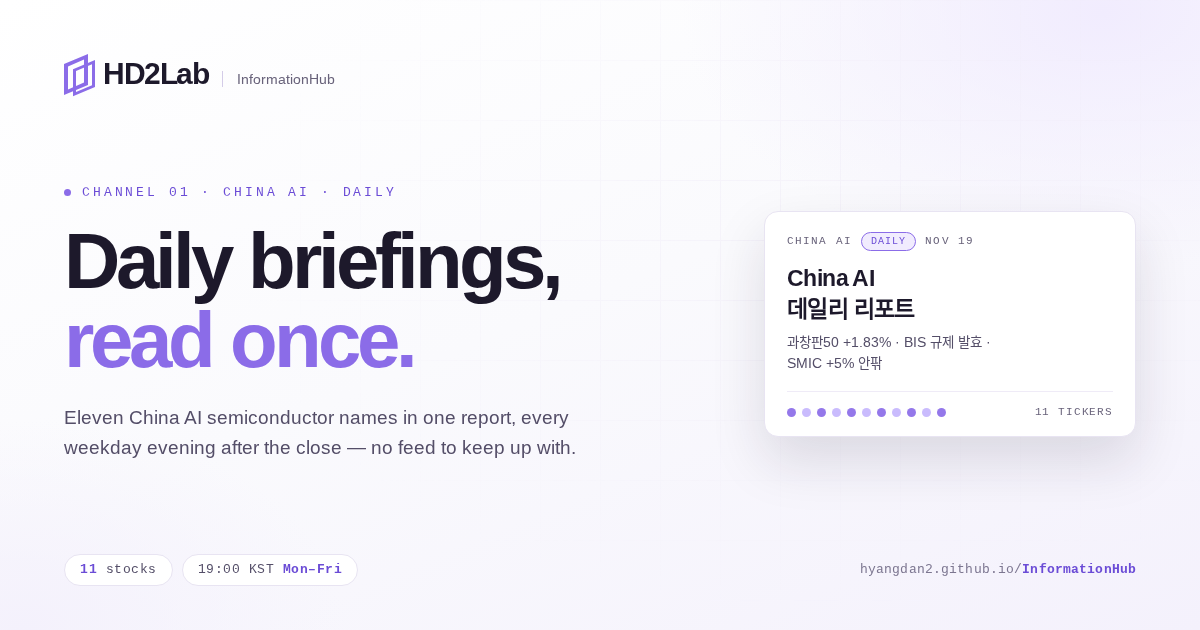
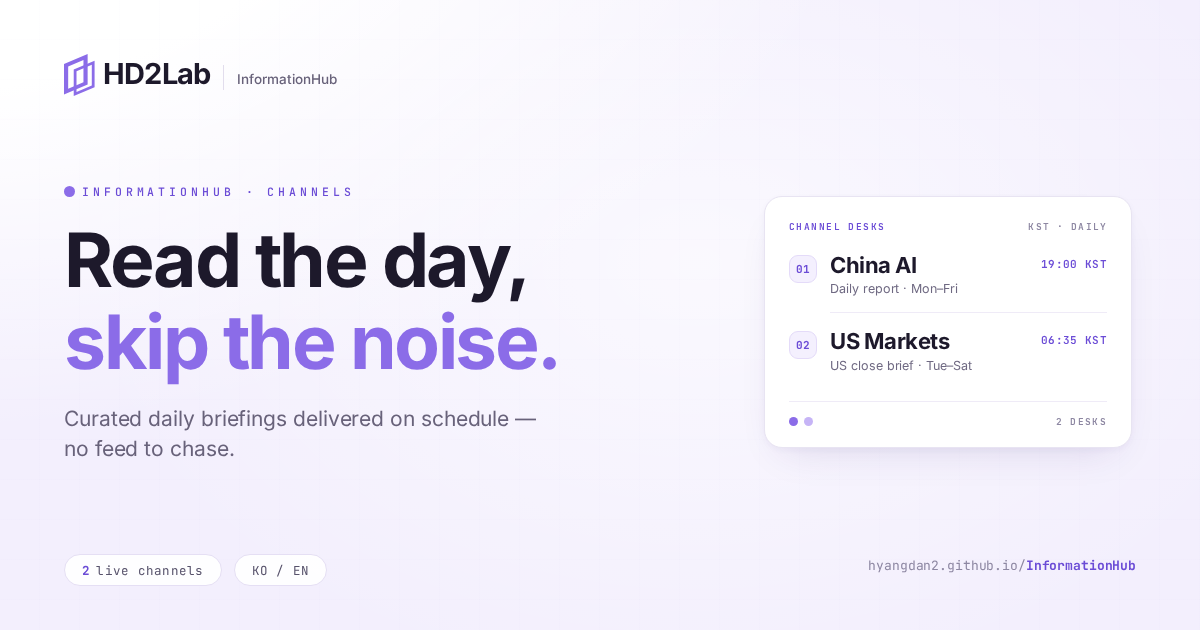
feat(og): 두 채널이 함께 보이는 범용 OG 카드로 교체 (#13)
- src/og-image.png·og-image.png를 1200×630 범용 버전으로 교체
  (배지 INFORMATIONHUB · CHANNELS, 헤드라인 "Read the day, / skip the noise.")
- 우측 카드에 China AI(19:00 KST)·US Markets(06:35 KST) 두 데스크 동시 노출
- 하단 칩 2 live channels · KO / EN, URL 워드마크 유지
- og:image·twitter:image 캐시 버스팅 ?v=20261119-og2
- node build.mjs로 정적 산출물 재생성

diff --git a/posts/2026-11-19-spotlight-nvda/index.html b/posts/2026-11-19-spotlight-nvda/index.html
@@ -17,8 +17,8 @@
     <meta property="og:title" content="US Markets 스포트라이트 · NVDA — 실적은 예상을 웃돌았지만, 주가는 52주 신저가 부근에 머물렀다 · HD2Lab | InformationHub">
     <meta property="og:description" content="HD2Lab InformationHub — channel-by-channel daily briefings. The China AI desk publishes one report on 11 China AI semiconductor names every weekday evening at 19:00 KST; the US Markets desk files one on the US close at 06:35 KST, Tuesday through Saturday.">
     <meta property="og:url" content="https://hyangdan2.github.io/InformationHub/posts/2026-11-19-spotlight-nvda/">
-    <meta property="og:image" content="https://hyangdan2.github.io/InformationHub/og-image.png">
-    <meta property="og:image:secure_url" content="https://hyangdan2.github.io/InformationHub/og-image.png">
+    <meta property="og:image" content="https://hyangdan2.github.io/InformationHub/og-image.png?v=20261119-og2">
+    <meta property="og:image:secure_url" content="https://hyangdan2.github.io/InformationHub/og-image.png?v=20261119-og2">
     <meta property="og:image:type" content="image/png">
     <meta property="og:image:width" content="1200">
     <meta property="og:image:height" content="630">
@@ -26,7 +26,7 @@
     <meta name="twitter:card" content="summary_large_image">
     <meta name="twitter:title" content="US Markets 스포트라이트 · NVDA — 실적은 예상을 웃돌았지만, 주가는 52주 신저가 부근에 머물렀다 · HD2Lab | InformationHub">
     <meta name="twitter:description" content="HD2Lab InformationHub — channel-by-channel daily briefings. The China AI desk publishes one report on 11 China AI semiconductor names every weekday evening at 19:00 KST; the US Markets desk files one on the US close at 06:35 KST, Tuesday through Saturday.">
-    <meta name="twitter:image" content="https://hyangdan2.github.io/InformationHub/og-image.png">
+    <meta name="twitter:image" content="https://hyangdan2.github.io/InformationHub/og-image.png?v=20261119-og2">
     <script>try{var h=localStorage.getItem('hd2-theme');document.documentElement.setAttribute('data-theme',h==='dark'?'dark':'light');}catch(e){document.documentElement.setAttribute('data-theme','light');}</script>
     <link rel="stylesheet" href="/InformationHub/assets/hd2-theme.css?v=20261119-info8">
     <script src="/InformationHub/assets/hd2-theme.js?v=20261119-info8" defer></script>

diff --git a/en/posts/2026-11-19-spotlight-nvda/index.html b/en/posts/2026-11-19-spotlight-nvda/index.html
@@ -17,8 +17,8 @@
     <meta property="og:title" content="US Markets Spotlight · NVDA — the quarter was won, the stock closed at its 52-week low · HD2Lab | InformationHub">
     <meta property="og:description" content="HD2Lab InformationHub — channel-by-channel daily briefings. The China AI desk publishes one report on 11 China AI semiconductor names every weekday evening at 19:00 KST; the US Markets desk files one on the US close at 06:35 KST, Tuesday through Saturday.">
     <meta property="og:url" content="https://hyangdan2.github.io/InformationHub/en/posts/2026-11-19-spotlight-nvda/">
-    <meta property="og:image" content="https://hyangdan2.github.io/InformationHub/og-image.png">
-    <meta property="og:image:secure_url" content="https://hyangdan2.github.io/InformationHub/og-image.png">
+    <meta property="og:image" content="https://hyangdan2.github.io/InformationHub/og-image.png?v=20261119-og2">
+    <meta property="og:image:secure_url" content="https://hyangdan2.github.io/InformationHub/og-image.png?v=20261119-og2">
     <meta property="og:image:type" content="image/png">
     <meta property="og:image:width" content="1200">
     <meta property="og:image:height" content="630">
@@ -26,7 +26,7 @@
     <meta name="twitter:card" content="summary_large_image">
     <meta name="twitter:title" content="US Markets Spotlight · NVDA — the quarter was won, the stock closed at its 52-week low · HD2Lab | InformationHub">
     <meta name="twitter:description" content="HD2Lab InformationHub — channel-by-channel daily briefings. The China AI desk publishes one report on 11 China AI semiconductor names every weekday evening at 19:00 KST; the US Markets desk files one on the US close at 06:35 KST, Tuesday through Saturday.">
-    <meta name="twitter:image" content="https://hyangdan2.github.io/InformationHub/og-image.png">
+    <meta name="twitter:image" content="https://hyangdan2.github.io/InformationHub/og-image.png?v=20261119-og2">
     <script>try{var h=localStorage.getItem('hd2-theme');document.documentElement.setAttribute('data-theme',h==='dark'?'dark':'light');}catch(e){document.documentElement.setAttribute('data-theme','light');}</script>
     <link rel="stylesheet" href="/InformationHub/assets/hd2-theme.css?v=20261119-info8">
     <script src="/InformationHub/assets/hd2-theme.js?v=20261119-info8" defer></script>

diff --git a/en/posts/2026-11-19-spotlight-hygon/index.html b/en/posts/2026-11-19-spotlight-hygon/index.html
@@ -17,8 +17,8 @@
     <meta property="og:title" content="China AI Spotlight · Hygon (688041) — three things a 17% intraday fall left behind · HD2Lab | InformationHub">
     <meta property="og:description" content="HD2Lab InformationHub — channel-by-channel daily briefings. The China AI desk publishes one report on 11 China AI semiconductor names every weekday evening at 19:00 KST; the US Markets desk files one on the US close at 06:35 KST, Tuesday through Saturday.">
     <meta property="og:url" content="https://hyangdan2.github.io/InformationHub/en/posts/2026-11-19-spotlight-hygon/">
-    <meta property="og:image" content="https://hyangdan2.github.io/InformationHub/og-image.png">
-    <meta property="og:image:secure_url" content="https://hyangdan2.github.io/InformationHub/og-image.png">
+    <meta property="og:image" content="https://hyangdan2.github.io/InformationHub/og-image.png?v=20261119-og2">
+    <meta property="og:image:secure_url" content="https://hyangdan2.github.io/InformationHub/og-image.png?v=20261119-og2">
     <meta property="og:image:type" content="image/png">
     <meta property="og:image:width" content="1200">
     <meta property="og:image:height" content="630">
@@ -26,7 +26,7 @@
     <meta name="twitter:card" content="summary_large_image">
     <meta name="twitter:title" content="China AI Spotlight · Hygon (688041) — three things a 17% intraday fall left behind · HD2Lab | InformationHub">
     <meta name="twitter:description" content="HD2Lab InformationHub — channel-by-channel daily briefings. The China AI desk publishes one report on 11 China AI semiconductor names every weekday evening at 19:00 KST; the US Markets desk files one on the US close at 06:35 KST, Tuesday through Saturday.">
-    <meta name="twitter:image" content="https://hyangdan2.github.io/InformationHub/og-image.png">
+    <meta name="twitter:image" content="https://hyangdan2.github.io/InformationHub/og-image.png?v=20261119-og2">
     <script>try{var h=localStorage.getItem('hd2-theme');document.documentElement.setAttribute('data-theme',h==='dark'?'dark':'light');}catch(e){document.documentElement.setAttribute('data-theme','light');}</script>
     <link rel="stylesheet" href="/InformationHub/assets/hd2-theme.css?v=20261119-info8">
     <script src="/InformationHub/assets/hd2-theme.js?v=20261119-info8" defer></script>

diff --git a/posts/2026-11-19-spotlight-hygon/index.html b/posts/2026-11-19-spotlight-hygon/index.html
@@ -17,8 +17,8 @@
     <meta property="og:title" content="China AI 스포트라이트 · 하이광(Hygon) — 장중 -17%가 남긴 세 가지 · HD2Lab | InformationHub">
     <meta property="og:description" content="HD2Lab InformationHub — channel-by-channel daily briefings. The China AI desk publishes one report on 11 China AI semiconductor names every weekday evening at 19:00 KST; the US Markets desk files one on the US close at 06:35 KST, Tuesday through Saturday.">
     <meta property="og:url" content="https://hyangdan2.github.io/InformationHub/posts/2026-11-19-spotlight-hygon/">
-    <meta property="og:image" content="https://hyangdan2.github.io/InformationHub/og-image.png">
-    <meta property="og:image:secure_url" content="https://hyangdan2.github.io/InformationHub/og-image.png">
+    <meta property="og:image" content="https://hyangdan2.github.io/InformationHub/og-image.png?v=20261119-og2">
+    <meta property="og:image:secure_url" content="https://hyangdan2.github.io/InformationHub/og-image.png?v=20261119-og2">
     <meta property="og:image:type" content="image/png">
     <meta property="og:image:width" content="1200">
     <meta property="og:image:height" content="630">
@@ -26,7 +26,7 @@
     <meta name="twitter:card" content="summary_large_image">
     <meta name="twitter:title" content="China AI 스포트라이트 · 하이광(Hygon) — 장중 -17%가 남긴 세 가지 · HD2Lab | InformationHub">
     <meta name="twitter:description" content="HD2Lab InformationHub — channel-by-channel daily briefings. The China AI desk publishes one report on 11 China AI semiconductor names every weekday evening at 19:00 KST; the US Markets desk files one on the US close at 06:35 KST, Tuesday through Saturday.">
-    <meta name="twitter:image" content="https://hyangdan2.github.io/InformationHub/og-image.png">
+    <meta name="twitter:image" content="https://hyangdan2.github.io/InformationHub/og-image.png?v=20261119-og2">
     <script>try{var h=localStorage.getItem('hd2-theme');document.documentElement.setAttribute('data-theme',h==='dark'?'dark':'light');}catch(e){document.documentElement.setAttribute('data-theme','light');}</script>
     <link rel="stylesheet" href="/InformationHub/assets/hd2-theme.css?v=20261119-info8">
     <script src="/InformationHub/assets/hd2-theme.js?v=20261119-info8" defer></script>

diff --git a/posts/2026-11-19-us-markets-daily/index.html b/posts/2026-11-19-us-markets-daily/index.html
@@ -17,8 +17,8 @@
     <meta property="og:title" content="US Markets 데일리 리포트 · 11월 19일 · HD2Lab | InformationHub">
     <meta property="og:description" content="HD2Lab InformationHub — channel-by-channel daily briefings. The China AI desk publishes one report on 11 China AI semiconductor names every weekday evening at 19:00 KST; the US Markets desk files one on the US close at 06:35 KST, Tuesday through Saturday.">
     <meta property="og:url" content="https://hyangdan2.github.io/InformationHub/posts/2026-11-19-us-markets-daily/">
-    <meta property="og:image" content="https://hyangdan2.github.io/InformationHub/og-image.png">
-    <meta property="og:image:secure_url" content="https://hyangdan2.github.io/InformationHub/og-image.png">
+    <meta property="og:image" content="https://hyangdan2.github.io/InformationHub/og-image.png?v=20261119-og2">
+    <meta property="og:image:secure_url" content="https://hyangdan2.github.io/InformationHub/og-image.png?v=20261119-og2">
     <meta property="og:image:type" content="image/png">
     <meta property="og:image:width" content="1200">
     <meta property="og:image:height" content="630">
@@ -26,7 +26,7 @@
     <meta name="twitter:card" content="summary_large_image">
     <meta name="twitter:title" content="US Markets 데일리 리포트 · 11월 19일 · HD2Lab | InformationHub">
     <meta name="twitter:description" content="HD2Lab InformationHub — channel-by-channel daily briefings. The China AI desk publishes one report on 11 China AI semiconductor names every weekday evening at 19:00 KST; the US Markets desk files one on the US close at 06:35 KST, Tuesday through Saturday.">
-    <meta name="twitter:image" content="https://hyangdan2.github.io/InformationHub/og-image.png">
+    <meta name="twitter:image" content="https://hyangdan2.github.io/InformationHub/og-image.png?v=20261119-og2">
     <script>try{var h=localStorage.getItem('hd2-theme');document.documentElement.setAttribute('data-theme',h==='dark'?'dark':'light');}catch(e){document.documentElement.setAttribute('data-theme','light');}</script>
     <link rel="stylesheet" href="/InformationHub/assets/hd2-theme.css?v=20261119-info8">
     <script src="/InformationHub/assets/hd2-theme.js?v=20261119-info8" defer></script>

diff --git a/posts/2026-11-18-chinaai-daily/index.html b/posts/2026-11-18-chinaai-daily/index.html
@@ -17,8 +17,8 @@
     <meta property="og:title" content="China AI 데일리 리포트 · 11월 18일 · HD2Lab | InformationHub">
     <meta property="og:description" content="HD2Lab InformationHub — channel-by-channel daily briefings. The China AI desk publishes one report on 11 China AI semiconductor names every weekday evening at 19:00 KST; the US Markets desk files one on the US close at 06:35 KST, Tuesday through Saturday.">
     <meta property="og:url" content="https://hyangdan2.github.io/InformationHub/posts/2026-11-18-chinaai-daily/">
-    <meta property="og:image" content="https://hyangdan2.github.io/InformationHub/og-image.png">
-    <meta property="og:image:secure_url" content="https://hyangdan2.github.io/InformationHub/og-image.png">
+    <meta property="og:image" content="https://hyangdan2.github.io/InformationHub/og-image.png?v=20261119-og2">
+    <meta property="og:image:secure_url" content="https://hyangdan2.github.io/InformationHub/og-image.png?v=20261119-og2">
     <meta property="og:image:type" content="image/png">
     <meta property="og:image:width" content="1200">
     <meta property="og:image:height" content="630">
@@ -26,7 +26,7 @@
     <meta name="twitter:card" content="summary_large_image">
     <meta name="twitter:title" content="China AI 데일리 리포트 · 11월 18일 · HD2Lab | InformationHub">
     <meta name="twitter:description" content="HD2Lab InformationHub — channel-by-channel daily briefings. The China AI desk publishes one report on 11 China AI semiconductor names every weekday evening at 19:00 KST; the US Markets desk files one on the US close at 06:35 KST, Tuesday through Saturday.">
-    <meta name="twitter:image" content="https://hyangdan2.github.io/InformationHub/og-image.png">
+    <meta name="twitter:image" content="https://hyangdan2.github.io/InformationHub/og-image.png?v=20261119-og2">
     <script>try{var h=localStorage.getItem('hd2-theme');document.documentElement.setAttribute('data-theme',h==='dark'?'dark':'light');}catch(e){document.documentElement.setAttribute('data-theme','light');}</script>
     <link rel="stylesheet" href="/InformationHub/assets/hd2-theme.css?v=20261119-info8">
     <script src="/InformationHub/assets/hd2-theme.js?v=20261119-info8" defer></script>

diff --git a/posts/2026-11-19-chinaai-daily/index.html b/posts/2026-11-19-chinaai-daily/index.html
@@ -17,8 +17,8 @@
     <meta property="og:title" content="China AI 데일리 리포트 · 11월 19일 · HD2Lab | InformationHub">
     <meta property="og:description" content="HD2Lab InformationHub — channel-by-channel daily briefings. The China AI desk publishes one report on 11 China AI semiconductor names every weekday evening at 19:00 KST; the US Markets desk files one on the US close at 06:35 KST, Tuesday through Saturday.">
     <meta property="og:url" content="https://hyangdan2.github.io/InformationHub/posts/2026-11-19-chinaai-daily/">
-    <meta property="og:image" content="https://hyangdan2.github.io/InformationHub/og-image.png">
-    <meta property="og:image:secure_url" content="https://hyangdan2.github.io/InformationHub/og-image.png">
+    <meta property="og:image" content="https://hyangdan2.github.io/InformationHub/og-image.png?v=20261119-og2">
+    <meta property="og:image:secure_url" content="https://hyangdan2.github.io/InformationHub/og-image.png?v=20261119-og2">
     <meta property="og:image:type" content="image/png">
     <meta property="og:image:width" content="1200">
     <meta property="og:image:height" content="630">
@@ -26,7 +26,7 @@
     <meta name="twitter:card" content="summary_large_image">
     <meta name="twitter:title" content="China AI 데일리 리포트 · 11월 19일 · HD2Lab | InformationHub">
     <meta name="twitter:description" content="HD2Lab InformationHub — channel-by-channel daily briefings. The China AI desk publishes one report on 11 China AI semiconductor names every weekday evening at 19:00 KST; the US Markets desk files one on the US close at 06:35 KST, Tuesday through Saturday.">
-    <meta name="twitter:image" content="https://hyangdan2.github.io/InformationHub/og-image.png">
+    <meta name="twitter:image" content="https://hyangdan2.github.io/InformationHub/og-image.png?v=20261119-og2">
     <script>try{var h=localStorage.getItem('hd2-theme');document.documentElement.setAttribute('data-theme',h==='dark'?'dark':'light');}catch(e){document.documentElement.setAttribute('data-theme','light');}</script>
     <link rel="stylesheet" href="/InformationHub/assets/hd2-theme.css?v=20261119-info8">
     <script src="/InformationHub/assets/hd2-theme.js?v=20261119-info8" defer></script>

diff --git a/en/posts/2026-11-19-us-markets-daily/index.html b/en/posts/2026-11-19-us-markets-daily/index.html
@@ -17,8 +17,8 @@
     <meta property="og:title" content="US Markets Daily Report · November 19 · HD2Lab | InformationHub">
     <meta property="og:description" content="HD2Lab InformationHub — channel-by-channel daily briefings. The China AI desk publishes one report on 11 China AI semiconductor names every weekday evening at 19:00 KST; the US Markets desk files one on the US close at 06:35 KST, Tuesday through Saturday.">
     <meta property="og:url" content="https://hyangdan2.github.io/InformationHub/en/posts/2026-11-19-us-markets-daily/">
-    <meta property="og:image" content="https://hyangdan2.github.io/InformationHub/og-image.png">
-    <meta property="og:image:secure_url" content="https://hyangdan2.github.io/InformationHub/og-image.png">
+    <meta property="og:image" content="https://hyangdan2.github.io/InformationHub/og-image.png?v=20261119-og2">
+    <meta property="og:image:secure_url" content="https://hyangdan2.github.io/InformationHub/og-image.png?v=20261119-og2">
     <meta property="og:image:type" content="image/png">
     <meta property="og:image:width" content="1200">
     <meta property="og:image:height" content="630">
@@ -26,7 +26,7 @@
     <meta name="twitter:card" content="summary_large_image">
     <meta name="twitter:title" content="US Markets Daily Report · November 19 · HD2Lab | InformationHub">
     <meta name="twitter:description" content="HD2Lab InformationHub — channel-by-channel daily briefings. The China AI desk publishes one report on 11 China AI semiconductor names every weekday evening at 19:00 KST; the US Markets desk files one on the US close at 06:35 KST, Tuesday through Saturday.">
-    <meta name="twitter:image" content="https://hyangdan2.github.io/InformationHub/og-image.png">
+    <meta name="twitter:image" content="https://hyangdan2.github.io/InformationHub/og-image.png?v=20261119-og2">
     <script>try{var h=localStorage.getItem('hd2-theme');document.documentElement.setAttribute('data-theme',h==='dark'?'dark':'light');}catch(e){document.documentElement.setAttribute('data-theme','light');}</script>
     <link rel="stylesheet" href="/InformationHub/assets/hd2-theme.css?v=20261119-info8">
     <script src="/InformationHub/assets/hd2-theme.js?v=20261119-info8" defer></script>

diff --git a/en/posts/2026-11-18-chinaai-daily/index.html b/en/posts/2026-11-18-chinaai-daily/index.html
@@ -17,8 +17,8 @@
     <meta property="og:title" content="China AI Daily Report · November 18 · HD2Lab | InformationHub">
     <meta property="og:description" content="HD2Lab InformationHub — channel-by-channel daily briefings. The China AI desk publishes one report on 11 China AI semiconductor names every weekday evening at 19:00 KST; the US Markets desk files one on the US close at 06:35 KST, Tuesday through Saturday.">
     <meta property="og:url" content="https://hyangdan2.github.io/InformationHub/en/posts/2026-11-18-chinaai-daily/">
-    <meta property="og:image" content="https://hyangdan2.github.io/InformationHub/og-image.png">
-    <meta property="og:image:secure_url" content="https://hyangdan2.github.io/InformationHub/og-image.png">
+    <meta property="og:image" content="https://hyangdan2.github.io/InformationHub/og-image.png?v=20261119-og2">
+    <meta property="og:image:secure_url" content="https://hyangdan2.github.io/InformationHub/og-image.png?v=20261119-og2">
     <meta property="og:image:type" content="image/png">
     <meta property="og:image:width" content="1200">
     <meta property="og:image:height" content="630">
@@ -26,7 +26,7 @@
     <meta name="twitter:card" content="summary_large_image">
     <meta name="twitter:title" content="China AI Daily Report · November 18 · HD2Lab | InformationHub">
     <meta name="twitter:description" content="HD2Lab InformationHub — channel-by-channel daily briefings. The China AI desk publishes one report on 11 China AI semiconductor names every weekday evening at 19:00 KST; the US Markets desk files one on the US close at 06:35 KST, Tuesday through Saturday.">
-    <meta name="twitter:image" content="https://hyangdan2.github.io/InformationHub/og-image.png">
+    <meta name="twitter:image" content="https://hyangdan2.github.io/InformationHub/og-image.png?v=20261119-og2">
     <script>try{var h=localStorage.getItem('hd2-theme');document.documentElement.setAttribute('data-theme',h==='dark'?'dark':'light');}catch(e){document.documentElement.setAttribute('data-theme','light');}</script>
     <link rel="stylesheet" href="/InformationHub/assets/hd2-theme.css?v=20261119-info8">
     <script src="/InformationHub/assets/hd2-theme.js?v=20261119-info8" defer></script>

diff --git a/en/posts/2026-11-19-chinaai-daily/index.html b/en/posts/2026-11-19-chinaai-daily/index.html
@@ -17,8 +17,8 @@
     <meta property="og:title" content="China AI Daily Report · November 19 · HD2Lab | InformationHub">
     <meta property="og:description" content="HD2Lab InformationHub — channel-by-channel daily briefings. The China AI desk publishes one report on 11 China AI semiconductor names every weekday evening at 19:00 KST; the US Markets desk files one on the US close at 06:35 KST, Tuesday through Saturday.">
     <meta property="og:url" content="https://hyangdan2.github.io/InformationHub/en/posts/2026-11-19-chinaai-daily/">
-    <meta property="og:image" content="https://hyangdan2.github.io/InformationHub/og-image.png">
-    <meta property="og:image:secure_url" content="https://hyangdan2.github.io/InformationHub/og-image.png">
+    <meta property="og:image" content="https://hyangdan2.github.io/InformationHub/og-image.png?v=20261119-og2">
+    <meta property="og:image:secure_url" content="https://hyangdan2.github.io/InformationHub/og-image.png?v=20261119-og2">
     <meta property="og:image:type" content="image/png">
     <meta property="og:image:width" content="1200">
     <meta property="og:image:height" content="630">
@@ -26,7 +26,7 @@
     <meta name="twitter:card" content="summary_large_image">
     <meta name="twitter:title" content="China AI Daily Report · November 19 · HD2Lab | InformationHub">
     <meta name="twitter:description" content="HD2Lab InformationHub — channel-by-channel daily briefings. The China AI desk publishes one report on 11 China AI semiconductor names every weekday evening at 19:00 KST; the US Markets desk files one on the US close at 06:35 KST, Tuesday through Saturday.">
-    <meta name="twitter:image" content="https://hyangdan2.github.io/InformationHub/og-image.png">
+    <meta name="twitter:image" content="https://hyangdan2.github.io/InformationHub/og-image.png?v=20261119-og2">
     <script>try{var h=localStorage.getItem('hd2-theme');document.documentElement.setAttribute('data-theme',h==='dark'?'dark':'light');}catch(e){document.documentElement.setAttribute('data-theme','light');}</script>
     <link rel="stylesheet" href="/InformationHub/assets/hd2-theme.css?v=20261119-info8">
     <script src="/InformationHub/assets/hd2-theme.js?v=20261119-info8" defer></script>

diff --git a/en/index.html b/en/index.html
@@ -17,8 +17,8 @@
     <meta property="og:title" content="HD2Lab | InformationHub">
     <meta property="og:description" content="HD2Lab InformationHub — channel-by-channel daily briefings. The China AI desk publishes one report on 11 China AI semiconductor names every weekday evening at 19:00 KST; the US Markets desk files one on the US close at 06:35 KST, Tuesday through Saturday.">
     <meta property="og:url" content="https://hyangdan2.github.io/InformationHub/en/">
-    <meta property="og:image" content="https://hyangdan2.github.io/InformationHub/og-image.png">
-    <meta property="og:image:secure_url" content="https://hyangdan2.github.io/InformationHub/og-image.png">
+    <meta property="og:image" content="https://hyangdan2.github.io/InformationHub/og-image.png?v=20261119-og2">
+    <meta property="og:image:secure_url" content="https://hyangdan2.github.io/InformationHub/og-image.png?v=20261119-og2">
     <meta property="og:image:type" content="image/png">
     <meta property="og:image:width" content="1200">
     <meta property="og:image:height" content="630">
@@ -26,7 +26,7 @@
     <meta name="twitter:card" content="summary_large_image">
     <meta name="twitter:title" content="HD2Lab | InformationHub">
     <meta name="twitter:description" content="HD2Lab InformationHub — channel-by-channel daily briefings. The China AI desk publishes one report on 11 China AI semiconductor names every weekday evening at 19:00 KST; the US Markets desk files one on the US close at 06:35 KST, Tuesday through Saturday.">
-    <meta name="twitter:image" content="https://hyangdan2.github.io/InformationHub/og-image.png">
+    <meta name="twitter:image" content="https://hyangdan2.github.io/InformationHub/og-image.png?v=20261119-og2">
     <script>try{var h=localStorage.getItem('hd2-theme');document.documentElement.setAttribute('data-theme',h==='dark'?'dark':'light');}catch(e){document.documentElement.setAttribute('data-theme','light');}</script>
     <link rel="stylesheet" href="/InformationHub/assets/hd2-theme.css?v=20261119-info8">
     <script src="/InformationHub/assets/hd2-theme.js?v=20261119-info8" defer></script>

diff --git a/index.html b/index.html
@@ -17,8 +17,8 @@
     <meta property="og:title" content="HD2Lab | InformationHub">
     <meta property="og:description" content="HD2Lab InformationHub — 관심 있는 분야의 주요 정보를 채널별로 정해진 시간에 정리해 드립니다. China AI는 평일 저녁 19:00 KST에, US Markets는 화~토 06:35 KST에 새 글을 올립니다.">
     <meta property="og:url" content="https://hyangdan2.github.io/InformationHub/">
-    <meta property="og:image" content="https://hyangdan2.github.io/InformationHub/og-image.png">
-    <meta property="og:image:secure_url" content="https://hyangdan2.github.io/InformationHub/og-image.png">
+    <meta property="og:image" content="https://hyangdan2.github.io/InformationHub/og-image.png?v=20261119-og2">
+    <meta property="og:image:secure_url" content="https://hyangdan2.github.io/InformationHub/og-image.png?v=20261119-og2">
     <meta property="og:image:type" content="image/png">
     <meta property="og:image:width" content="1200">
     <meta property="og:image:height" content="630">
@@ -26,7 +26,7 @@
     <meta name="twitter:card" content="summary_large_image">
     <meta name="twitter:title" content="HD2Lab | InformationHub">
     <meta name="twitter:description" content="HD2Lab InformationHub — 관심 있는 분야의 주요 정보를 채널별로 정해진 시간에 정리해 드립니다. China AI는 평일 저녁 19:00 KST에, US Markets는 화~토 06:35 KST에 새 글을 올립니다.">
-    <meta name="twitter:image" content="https://hyangdan2.github.io/InformationHub/og-image.png">
+    <meta name="twitter:image" content="https://hyangdan2.github.io/InformationHub/og-image.png?v=20261119-og2">
     <script>try{var h=localStorage.getItem('hd2-theme');document.documentElement.setAttribute('data-theme',h==='dark'?'dark':'light');}catch(e){document.documentElement.setAttribute('data-theme','light');}</script>
     <link rel="stylesheet" href="/InformationHub/assets/hd2-theme.css?v=20261119-info8">
     <script src="/InformationHub/assets/hd2-theme.js?v=20261119-info8" defer></script>
